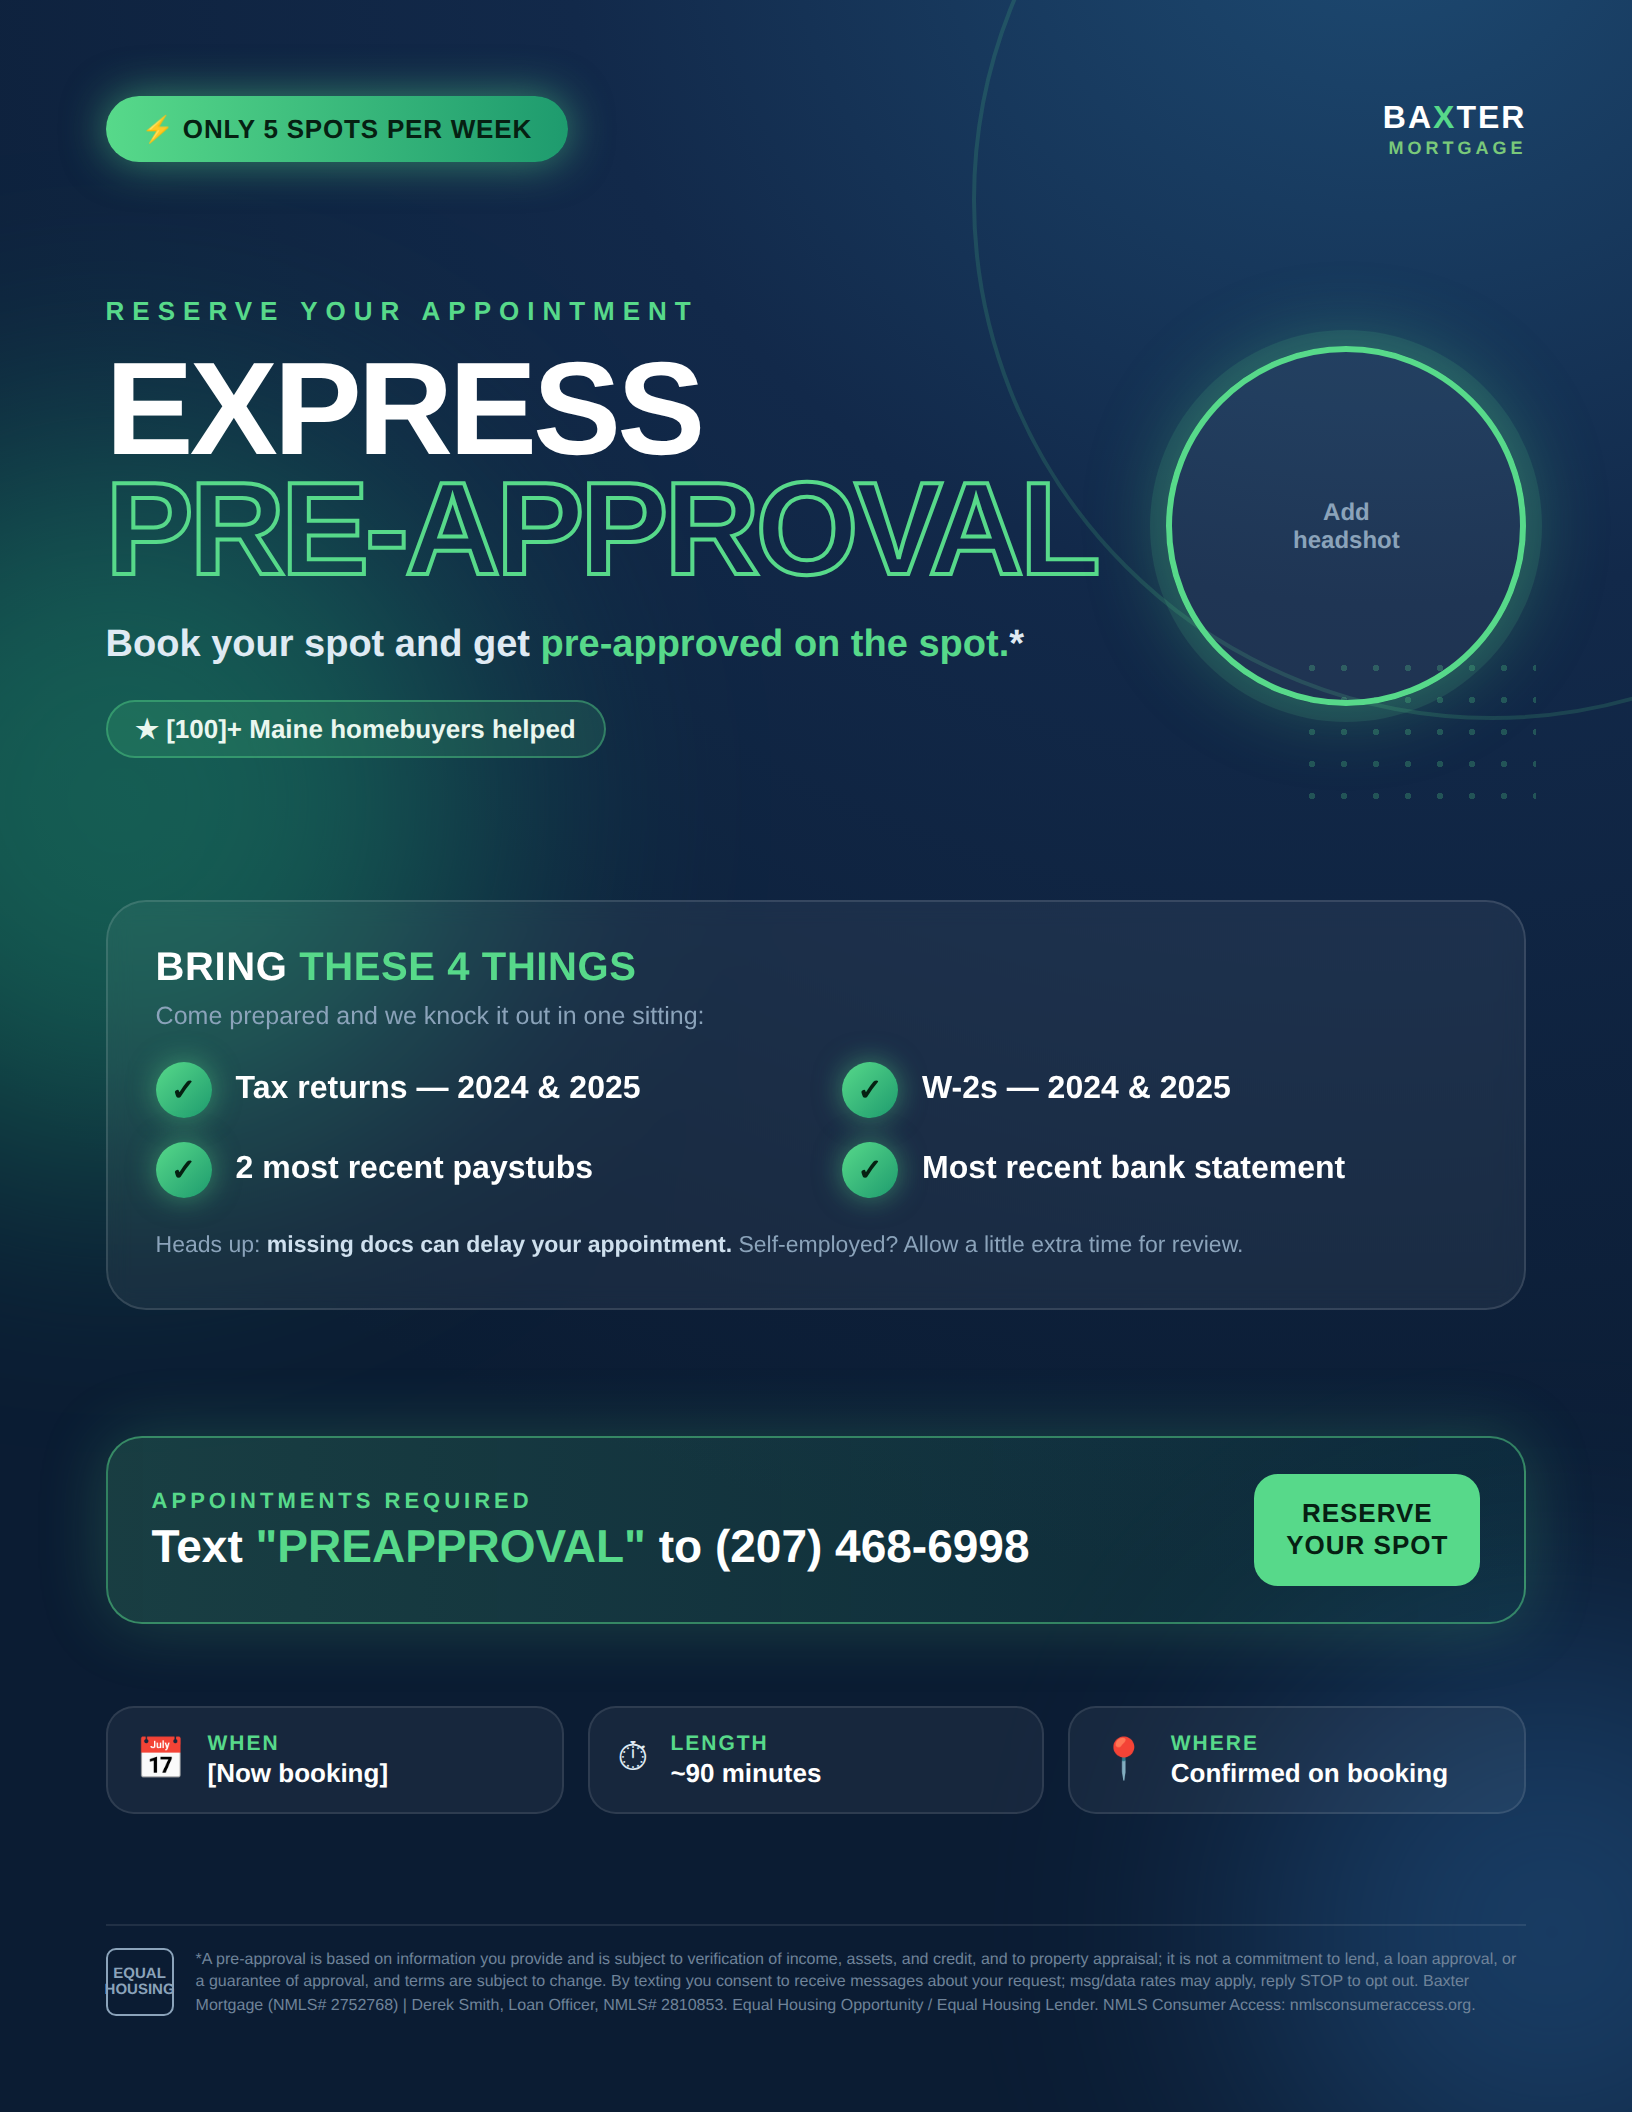
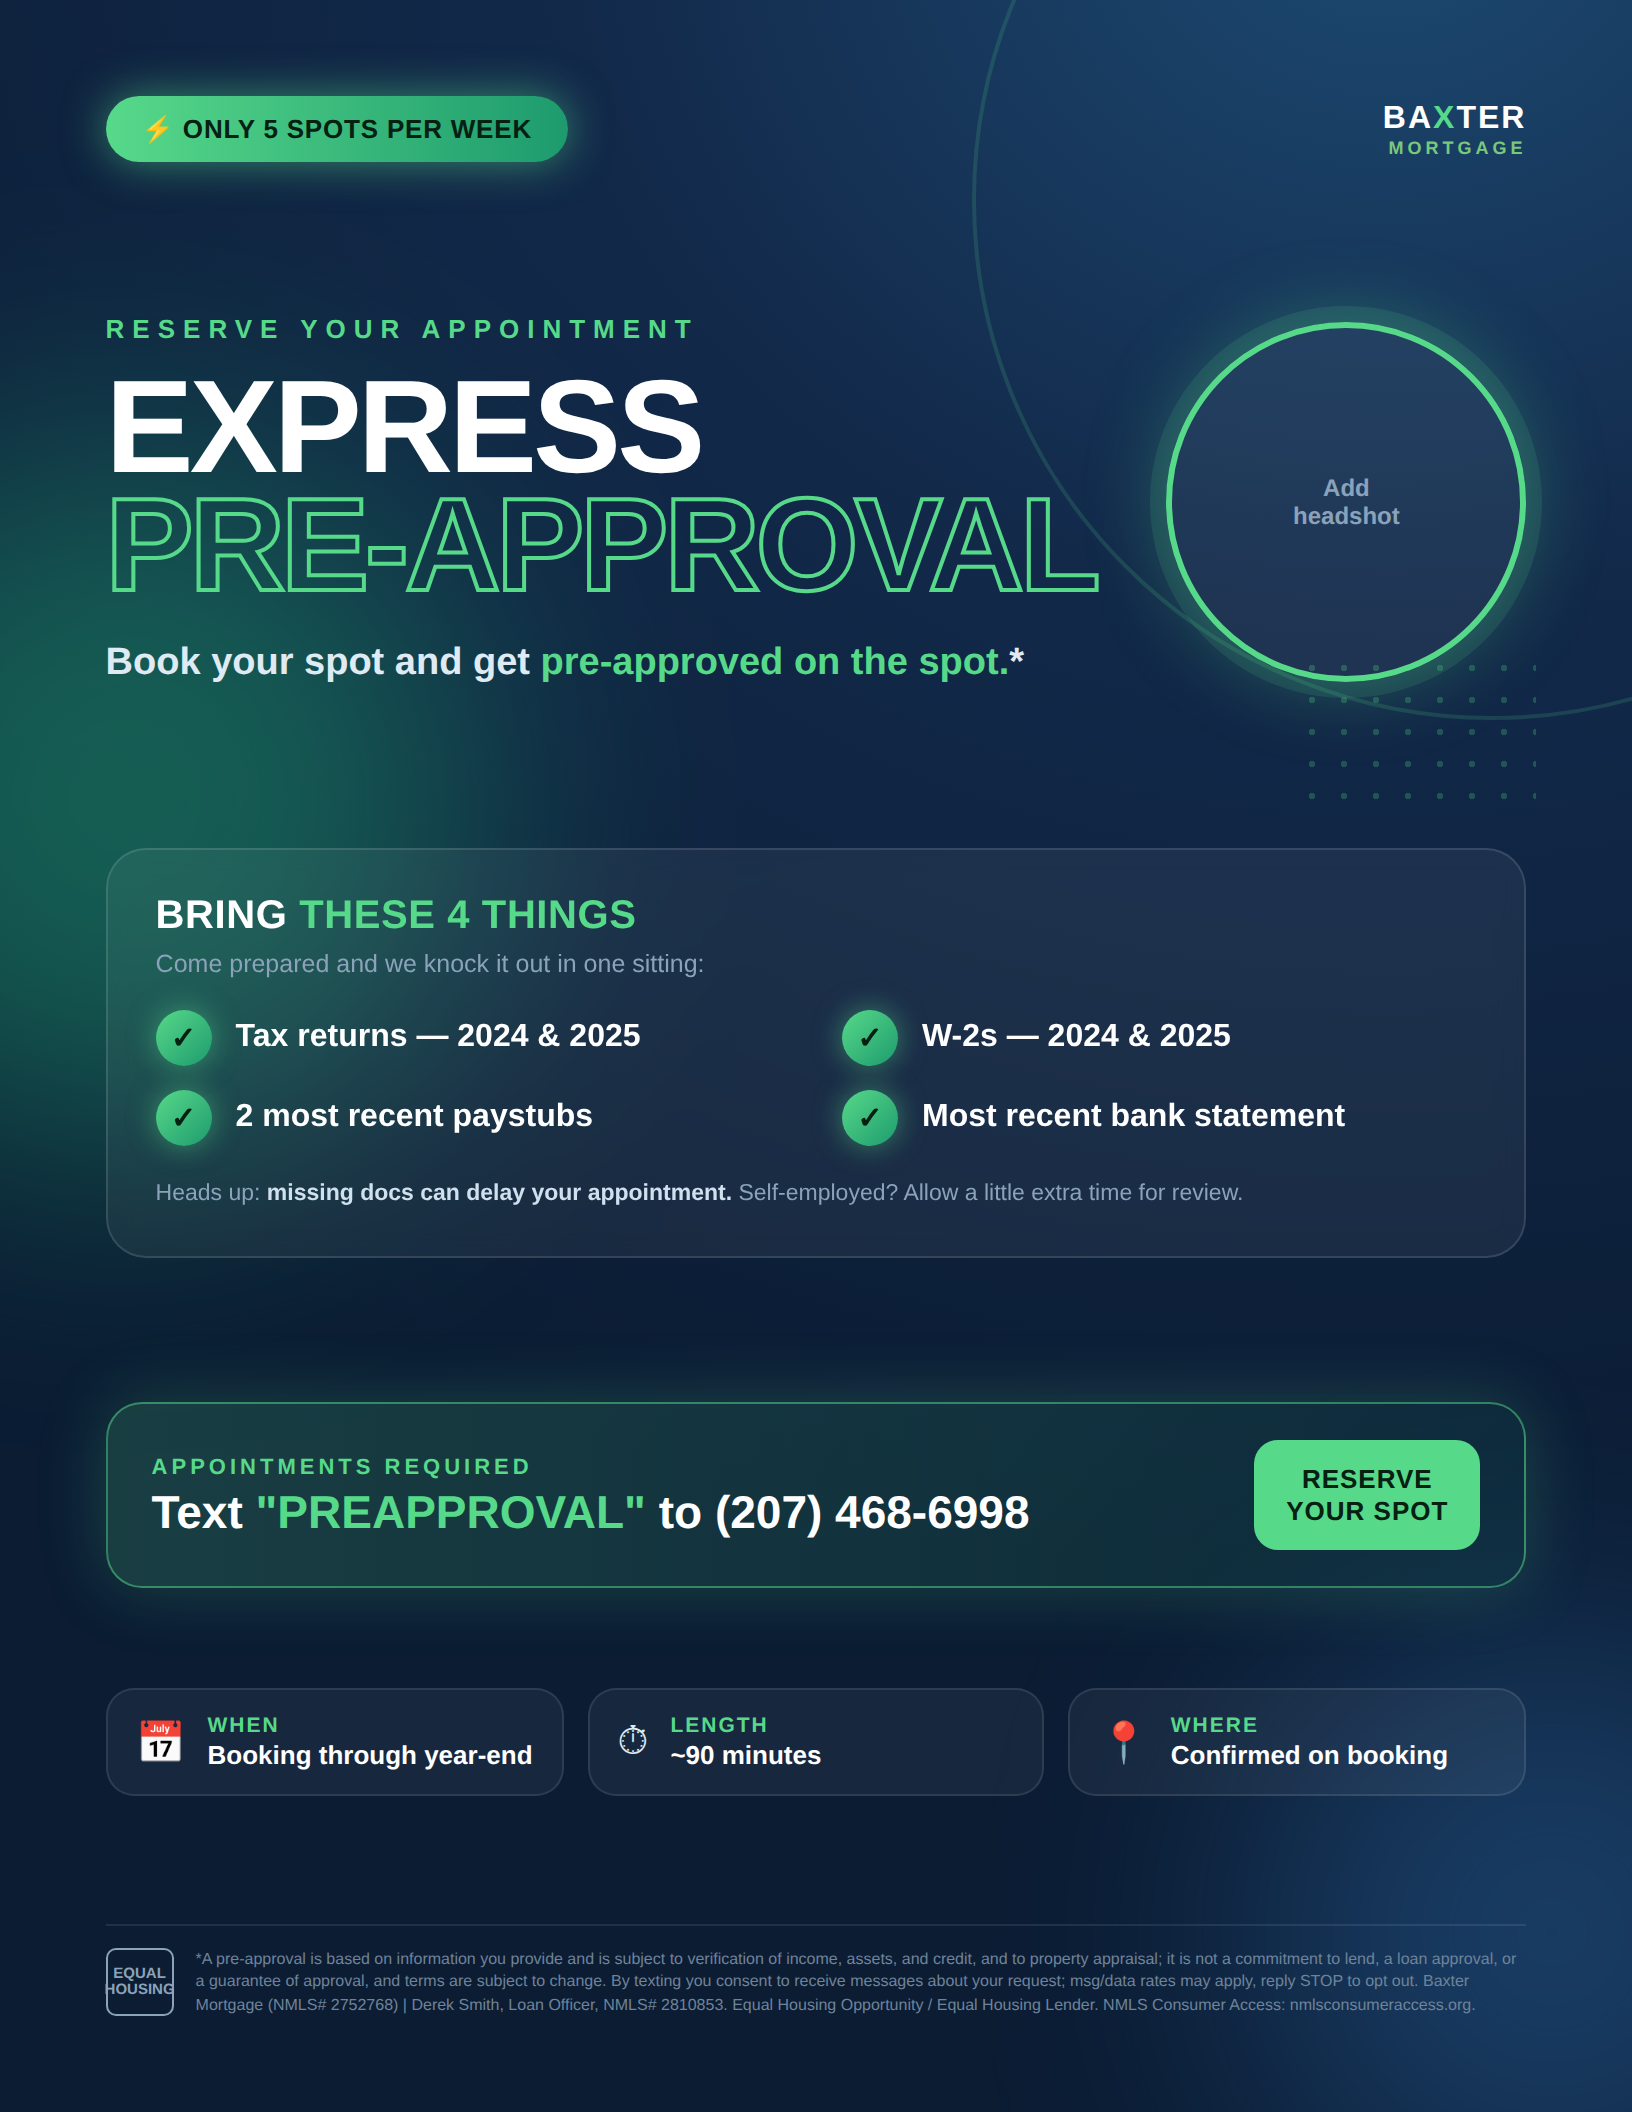
Express Preapproval flyer: remove 'homebuyers helped' line, booking through year-end
Dropped the '[100]+ homebuyers helped' social-proof pill and set the WHEN chip
to 'Booking through year-end.'

Claude-Session: https://claude.ai/code/session_01NeTePcG8Z61QQmMSpMTEpt

diff --git a/lead-generation/express-preapproval-flyer.html b/lead-generation/express-preapproval-flyer.html
@@ -112,7 +112,6 @@
         <div class="kicker">Reserve your appointment</div>
         <h1>Express<br><span class="out">Pre-Approval</span></h1>
         <div class="tag">Book your spot and get <b>pre-approved on the spot.</b>*</div>
-        <div class="proof">★ [100]+ Maine homebuyers helped</div>
       </div>
       <div class="shot"><!-- swap for <img src="derek-headshot.jpg"> -->Add<br>headshot</div>
     </div>
@@ -138,7 +137,7 @@
     </div>
 
     <div class="chips">
-      <div class="chip"><span class="ic">📅</span><div><div class="k">When</div><div class="v">[Now booking]</div></div></div>
+      <div class="chip"><span class="ic">📅</span><div><div class="k">When</div><div class="v">Booking through year-end</div></div></div>
       <div class="chip"><span class="ic">⏱</span><div><div class="k">Length</div><div class="v">~90 minutes</div></div></div>
       <div class="chip"><span class="ic">📍</span><div><div class="k">Where</div><div class="v">Confirmed on booking</div></div></div>
     </div>

diff --git a/lead-generation/output/express-preapproval-flyer.html b/lead-generation/output/express-preapproval-flyer.html
@@ -112,7 +112,6 @@
         <div class="kicker">Reserve your appointment</div>
         <h1>Express<br><span class="out">Pre-Approval</span></h1>
         <div class="tag">Book your spot and get <b>pre-approved on the spot.</b>*</div>
-        <div class="proof">★ [100]+ Maine homebuyers helped</div>
       </div>
       <div class="shot"><!-- swap for <img src="derek-headshot.jpg"> -->Add<br>headshot</div>
     </div>
@@ -138,7 +137,7 @@
     </div>
 
     <div class="chips">
-      <div class="chip"><span class="ic">📅</span><div><div class="k">When</div><div class="v">[Now booking]</div></div></div>
+      <div class="chip"><span class="ic">📅</span><div><div class="k">When</div><div class="v">Booking through year-end</div></div></div>
       <div class="chip"><span class="ic">⏱</span><div><div class="k">Length</div><div class="v">~90 minutes</div></div></div>
       <div class="chip"><span class="ic">📍</span><div><div class="k">Where</div><div class="v">Confirmed on booking</div></div></div>
     </div>
